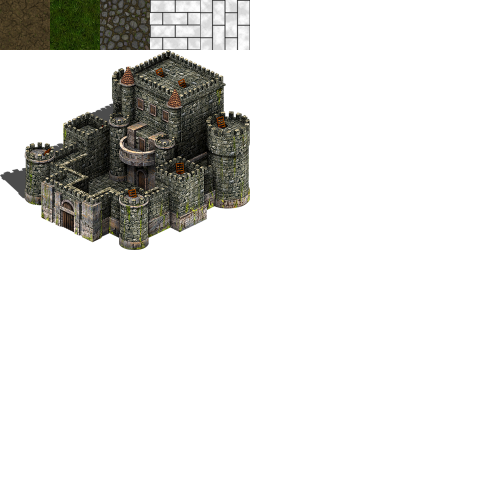
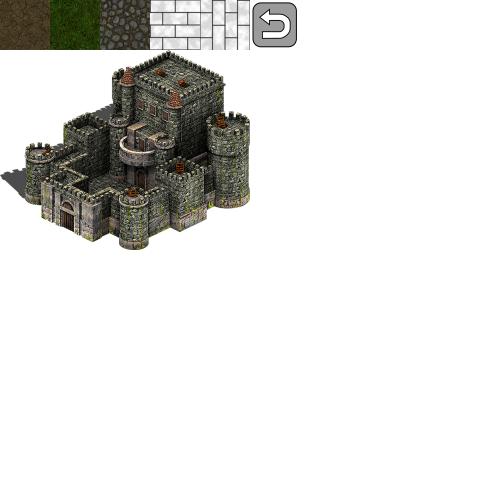
Get in and get out of the castle

Changed region(s): [[0.48, 0.0, 0.6, 0.12]]

diff --git a/AthameRPG/AthameRPG/Objects/Castles/MainCastle.cs b/AthameRPG/AthameRPG/Objects/Castles/MainCastle.cs
@@ -14,6 +14,7 @@ namespace AthameRPG.Objects.Castles
 {
     public abstract class MainCastle
     {
+        protected bool mouseIsOverReturnButton;
         protected static Texture2D imageOfCastleOutside;
         protected const string ImageOfCastleOutsidePath = @"../Content/Obstacles/castles";
         protected string insideFirstCastlePath;
@@ -23,7 +24,6 @@ namespace AthameRPG.Objects.Castles
         protected int cropCurrentCastleImageWidth;
         protected int cropCurrentCastleImageHeight;
         protected static Texture2D insideCastle;
-        protected MouseState mouse;
 
         protected Dictionary<WarUnit, decimal> gadini;
         
@@ -58,7 +58,6 @@ namespace AthameRPG.Objects.Castles
                 this.drawCoordinates.X = this.coordinatesOnMap.X + CharacterManager.barbarian.CoordP().X;
                 this.drawCoordinates.Y = this.coordinatesOnMap.Y + CharacterManager.barbarian.CoordP().Y;
 
-                this.mouse = Mouse.GetState();
                 MouseExtended.Current.GetState(gameTime);
 
                 bool isNearBottomSideOfCastleByX = (this.drawCoordinates.X + (this.cropCurrentCastleImageWidth/2)) > 375 &&
@@ -80,15 +79,30 @@ namespace AthameRPG.Objects.Castles
                     if (MouseExtended.Current.WasDoubleClick(MouseButton.Left))
                     {
                         Character.GetIsInCastle = true;
-
                     }
+
                 }
+                
                 
 
             }
             else if (Character.GetIsInCastle)
             {
+                MouseExtended.Current.GetState(gameTime);
+                if (MouseExtended.Current.CurrentState.Position.X > 750 && MouseExtended.Current.CurrentState.Position.X < 800 && MouseExtended.Current.CurrentState.Position.Y > 550 && MouseExtended.Current.CurrentState.Position.Y < 600)
+                {
+                    this.mouseIsOverReturnButton = true;
 
+                    if (MouseExtended.Current.WasSingleClick(MouseButton.Left))
+                    {
+                        Character.GetIsInCastle = false;
+
+                    }
+                }
+                else
+                {
+                    this.mouseIsOverReturnButton = false;
+                }
             }
             else if (Character.GetIsInBattle)
             {
@@ -105,6 +119,16 @@ namespace AthameRPG.Objects.Castles
             else if (Character.GetIsInCastle)
             {
                 spriteBatch.Draw(insideCastle, new Vector2(0,0), Color.White);
+
+                if (this.mouseIsOverReturnButton)
+                {
+                    spriteBatch.Draw(MapManager.Instance.Terrain, new Vector2(750, 550), new Rectangle(250, 0, 50, 50), Color.Red);
+                }
+                else
+                {
+                    spriteBatch.Draw(MapManager.Instance.Terrain, new Vector2(750, 550), new Rectangle(250, 0, 50, 50), Color.White);
+                }
+                
             }
             else if (Character.GetIsInBattle)
             {
